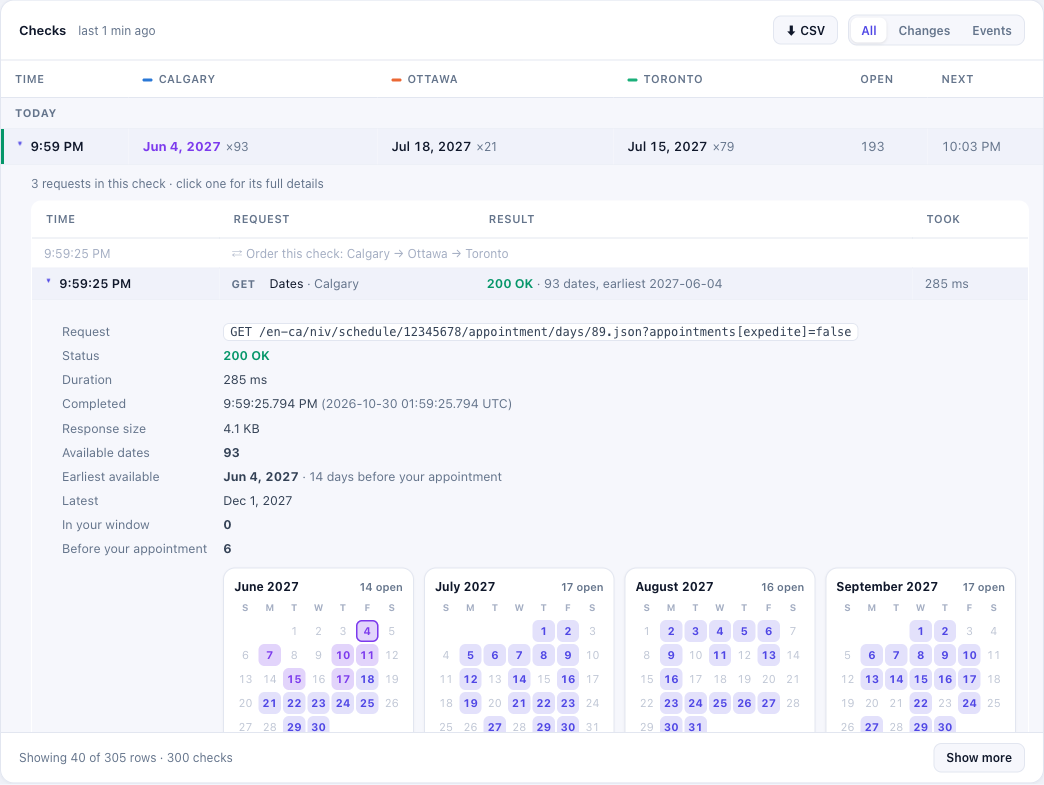
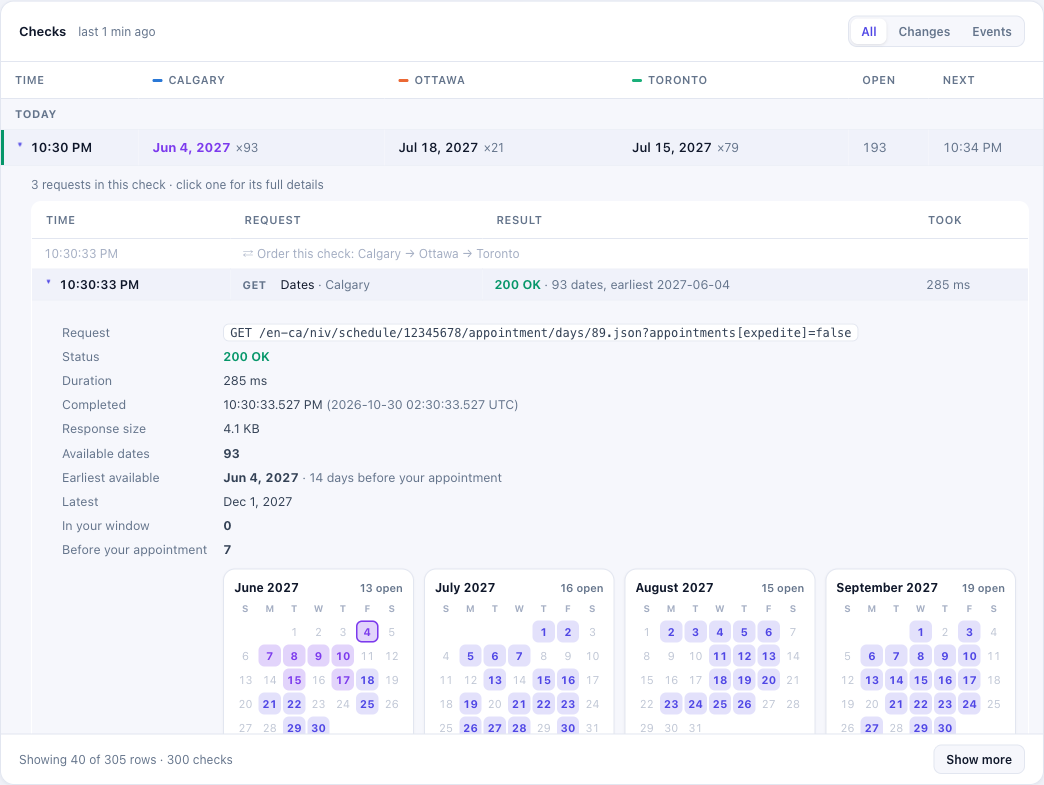
Dashboard: drop the CSV download; technical wording for requests in flight

diff --git a/src/ui/index.html b/src/ui/index.html
@@ -538,7 +538,6 @@
       <div class="ph">
         <h2>Checks</h2><span class="sub" id="tblSub"></span>
         <div class="right">
-          <a class="btn-ghost" href="/api/checks.csv" download>⬇ CSV</a>
           <div class="seg" id="tblFilter">
             <button data-f="all" class="on">All</button>
             <button data-f="changes">Changes</button>
@@ -769,7 +768,7 @@ const colorOf = name => {
 const PHASES = {
   stopped:      { dot: '',     bar: 'Stopped',      head: 'Stopped',                       sub: 'Pick your dates and press Start.' },
   'signing-in': { dot: 'on',   bar: 'Signing in',   head: 'Signing in…',                   sub: 'Connecting to the visa site.' },
-  checking:     { dot: 'on',   bar: 'Checking',     head: 'Checking cities…',              sub: 'Asking each city for open dates.' },
+  checking:     { dot: 'on',   bar: 'Checking',     head: 'Checking cities…',              sub: 'Querying each city for availability.' },
   waiting:      { dot: 'on',   bar: 'Watching',     head: 'Watching for openings',         sub: 'Nothing in your window yet.', label: 'Next check in' },
   relogin:      { dot: 'warn', bar: 'Reconnecting', head: 'Reconnecting',                  sub: 'Session ended — signing in again automatically.', label: 'Signing in again in', p: 'warn' },
   paused:       { dot: 'bad',  bar: 'Paused',       head: 'Paused — site pushed back',     sub: 'Resting to avoid a ban.', label: 'Next check in', p: 'bad' },
@@ -873,7 +872,7 @@ function renderCycle(running, counting) {
     const when = c.t ? ` · checked ${c.t.startsWith('~') ? 'in about ' + c.t.slice(1) : 'in ' + c.t}` : '';
     // The city's earliest open date, and how it compares to your window and appointment
     let date = '', ind = '', tone = '', what;
-    if (c.spin) { date = '<span class="spin"></span>'; what = 'being checked now'; }
+    if (c.spin) { date = '<span class="spin"></span>'; what = 'request in flight'; }
     else if (c.d) {
       const v = vsAppt(c.d);
       date = esc(shortDate(c.d));
@@ -1090,8 +1089,8 @@ function liveRow(names, cols) {
   const cells = names.map(n => {
     const c = live.found[n];
     if (!c) return n === live.asking
-      ? `<td class="c lv-ask"><span class="spin sm"></span>asking…</td>`
-      : `<td class="c"><span class="skel" title="${esc(n)} hasn't been asked yet"></span></td>`;
+      ? `<td class="c lv-ask" title="GET dates request in flight"><span class="spin sm"></span>Request in flight</td>`
+      : `<td class="c"><span class="skel" title="${esc(n)}: queued — not requested yet"></span></td>`;
     if (c.err) return `<td class="c drop">error</td>`;
     if (!c.date) return `<td class="c none lv-in">—</td>`;
     total += c.count;

diff --git a/src/ui/server.js b/src/ui/server.js
@@ -265,19 +265,6 @@ function insights() {
   };
 }
 
-function checksCsv() {
-  const checks = allChecks(3650);
-  const names = [];
-  for (const ch of checks) for (const c of ch.cities) if (!names.includes(c.name)) names.push(c.name);
-  const q = v => (/[",\n]/.test(v) ? `"${String(v).replace(/"/g, '""')}"` : v);
-  const rows = [['time_utc', 'time_local', ...names.flatMap(n => [`${n} earliest`, `${n} open`])].map(q).join(',')];
-  for (const ch of checks) {
-    const by = Object.fromEntries(ch.cities.map(c => [c.name, c]));
-    rows.push([ch.at, new Date(ch.at).toLocaleString(), ...names.flatMap(n => [by[n]?.date || '', by[n] ? by[n].count : ''])].map(v => q(String(v))).join(','));
-  }
-  return rows.join('\n') + '\n';
-}
-
 // ---------- .env settings (credentials are never read out or written here)
 function getSettings() {
   const cc = process.env.COUNTRY_CODE;
@@ -385,10 +372,6 @@ const server = http.createServer(async (req, res) => {
   if (req.method === 'GET' && req.url.startsWith('/api/request?')) {
     const q = new URL(req.url, 'http://localhost').searchParams;
     return json(200, findRequest(q.get('label') || '', q.get('at') || '') || { missing: true });
-  }
-  if (req.method === 'GET' && req.url === '/api/checks.csv') {
-    res.writeHead(200, { 'Content-Type': 'text/csv; charset=utf-8', 'Content-Disposition': `attachment; filename="visa-checks-${new Date().toISOString().slice(0, 10)}.csv"` });
-    return res.end(checksCsv());
   }
   if (req.method === 'GET' && req.url === '/api/settings') return json(200, getSettings());
   if (req.method === 'POST' && req.url === '/api/settings') { const r = setSettings(await readBody(req)); return json(r.error ? 400 : 200, r); }

diff --git a/README.md b/README.md
@@ -68,7 +68,7 @@ No terminal next time: double-click **`Visa Bot.cmd`** (Windows) or **`Visa Bot.
 - One row per check with each city's earliest date and how many dates it had; the check in progress fills in live, city by city, as the answers come back
 - ↑/↓ when a city's earliest date moves, highlights for dates inside your window, and a warning when a city that had dates drops to zero (the soft-ban pattern)
 - Sign-ins, sign-outs and stops have their own icons, so each session is easy to pick out; bookings, warnings and problems are coloured
-- Filters: **All**, **Changes**, **Events** (sign-ins, backoffs, settings changes, bookings) — plus **CSV export**
+- Filters: **All**, **Changes**, **Events** (sign-ins, backoffs, settings changes, bookings)
 
 **Click a check to see what the bot did**
 
